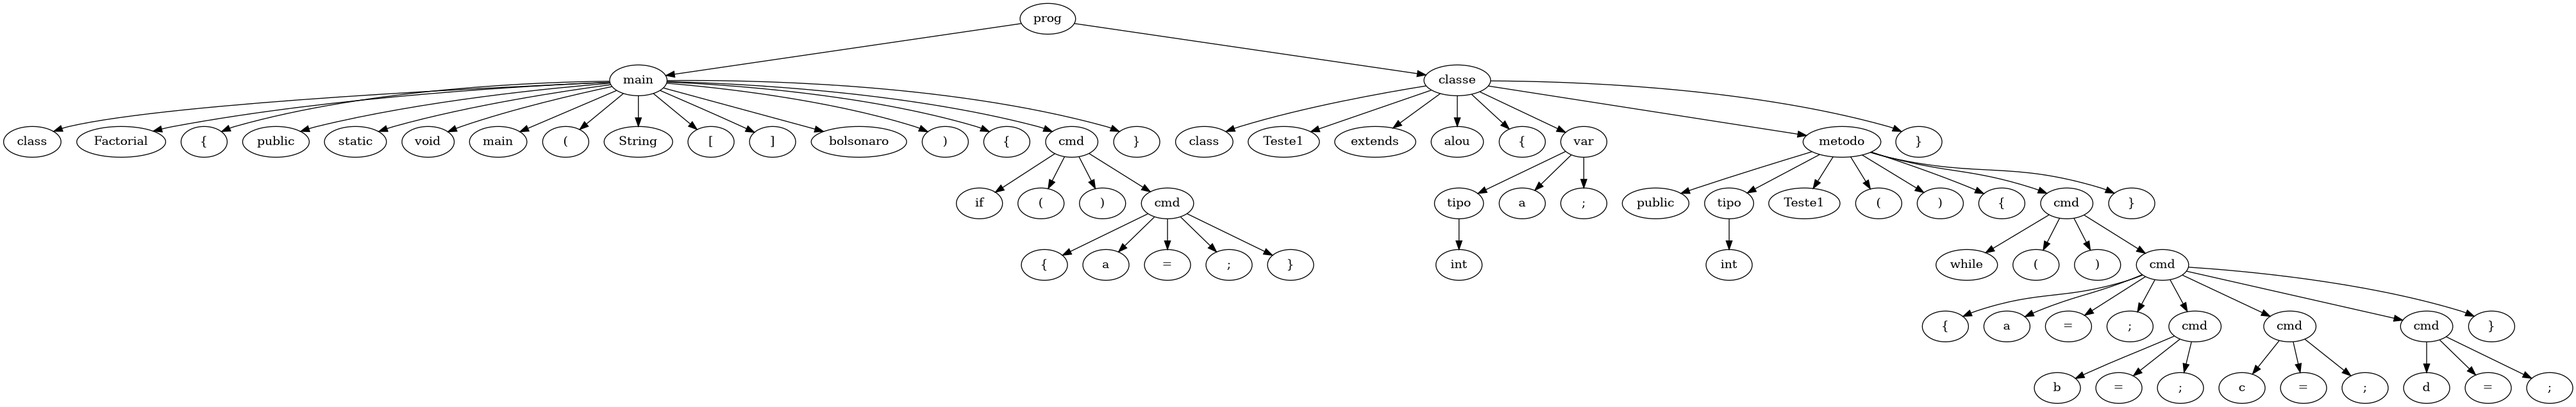
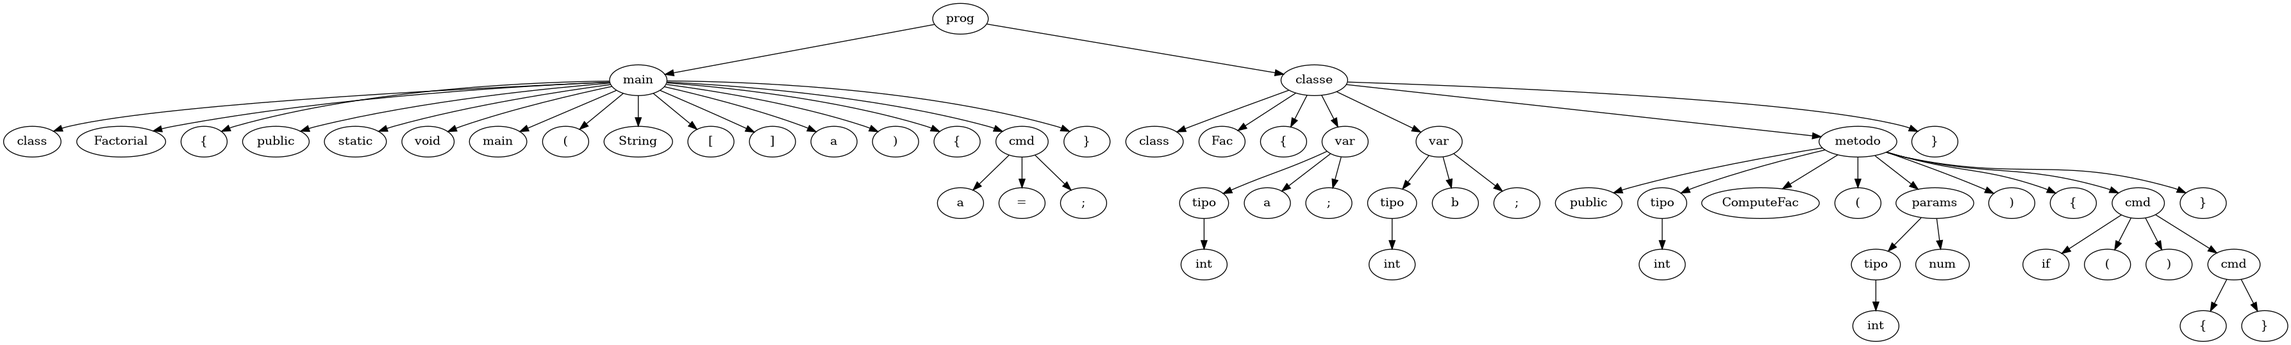
adicionando while

diff --git a/classes/parser.py b/classes/parser.py
@@ -74,8 +74,7 @@ class MiniJavaParser:
             self.parse_cmd("MAIN")
             self.id_cmd += 1
 
-        self.expect("del","}", "MAIN")
-        return
+        self.expect("del","}", "MAIN")        
         
 
     def parse_class(self, father):
@@ -145,7 +144,7 @@ class MiniJavaParser:
         self.expect("del", ")", current_method)
         self.expect("del", "{", current_method)
 
-        if self.peek()[0] == "type":
+        while self.peek()[0] == "type":
             self.parse_var(current_method)
             self.id_var += 1
 
@@ -232,14 +231,3 @@ class MiniJavaParser:
 
         else:
             raise SyntaxError(f"Comando inválido ou inesperado: {token}")
-
-
-
-
-       
-
-
-
-        
-
-

diff --git a/classes/scanner.py b/classes/scanner.py
@@ -9,7 +9,7 @@ class MiniJavaScanner:
     def __init__(self):
         # Tipos de tokens reconhecidos por MiniJava+
         self.TYPES = [
-            ("key", r"\b(System.out.println|class|extends|public|static|void|main|if|else|while|return|true|false|String|null)\b"),
+            ("key", r"\b(System.out.println|class|extends|public|static|void|main|if|else|while|return|true|false|String|new|null)\b"),
             ("type", r"\b(boolean|int)\b"),
             ("id", r"[a-zA-Z_][a-zA-Z0-9_]*"),
             ("num", r"\b\d+\b"),

diff --git a/ex1.java b/ex1.java
@@ -1,21 +1,13 @@
-class Factorial {
-    public static void main(String[] bolsonaro) {
-        if(){
-            a = ;
-        }
+class Factorial{
+    public static void main(String[] a){
+        a = ;
     }
-}
-// Comentário de uma linha
-class Teste1 extends alou {
+   }
+class Fac {
     int a;
-    public int Teste1() {
-        while(){
-            a = ;
-            b = ;
-            c = ;
-            d = ;
-        }
-
+    int b;
+    public int ComputeFac(int num){
+    if (){
     }
-
-}
+    }
+}   

diff --git a/main.py b/main.py
@@ -11,7 +11,7 @@ else:
     try:
         tokens = scanner.scan(sys.argv[1])
         for token in tokens:
-            #print(f'{token} - {i}')
+            print(f'{token} - {i}')
             i += 1
     except Exception as e:
         print(f"Erro: {e}")
